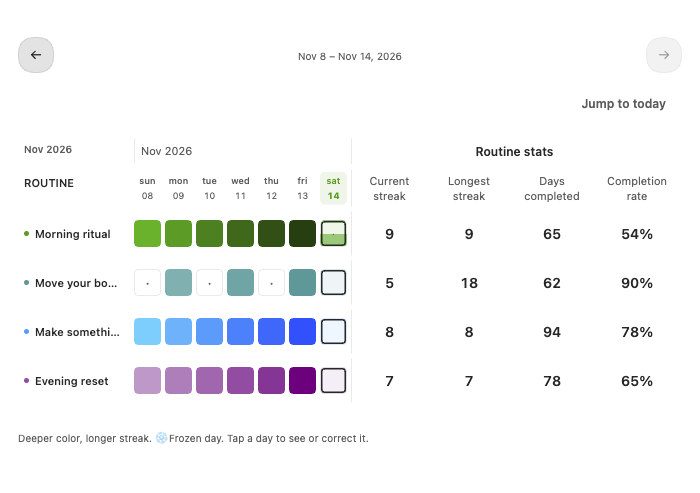
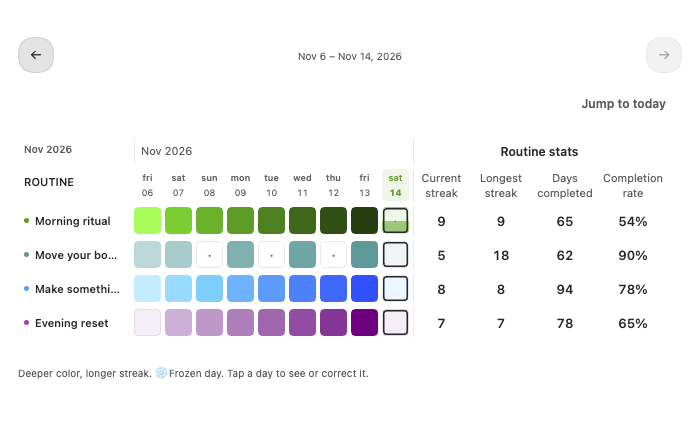
Tighten Routine stats columns and desktop rows

diff --git a/styles.css b/styles.css
@@ -355,13 +355,16 @@
 .dm-board-host.is-paginated .dm-board-stat,
 .dm-board-host.is-paginated .dm-board-stat-heading,
 .dm-board-host.is-paginated .dm-routine-stats-heading { display: none; }
-.dm-board-host.is-paginated .dm-board-row:not(.dm-month-row):not(.dm-column-headings) { min-height: 44px; }
-.dm-board-host.has-inline-stats .dm-board-row { grid-template-columns: var(--dm-board-label-width) repeat(var(--dm-days), 27px) 76px 76px 82px 80px; }
+.dm-board-host.is-paginated .dm-board-row[data-routine-id] { min-height: 44px; }
+.dm-board-host.has-inline-stats .dm-board { gap: 4px; }
+.dm-board-host.has-inline-stats .dm-board-row { grid-template-columns: var(--dm-board-label-width) repeat(var(--dm-days), 27px) 56px 56px 64px 64px; }
+.dm-board-host.has-inline-stats .dm-board-row[data-routine-id] { min-height: 30px; }
 .dm-board-host.has-inline-stats .dm-board-row:not(.dm-month-row):not(.dm-column-headings) > .dm-board-label { display: flex; align-items: center; }
 .dm-board-host.has-inline-stats .dm-board-label::before { flex: 0 0 5px; }
 .dm-board-routine-name-text { min-width: 0; overflow: hidden; text-overflow: ellipsis; white-space: nowrap; }
 .dm-board-host.has-inline-stats .dm-board-stat,
-.dm-board-host.has-inline-stats .dm-board-stat-heading { display: flex; flex-direction: column; align-items: center; justify-content: center; align-self: stretch; min-width: 0; text-align: center; padding: 4px; }
+.dm-board-host.has-inline-stats .dm-board-stat-heading { display: flex; flex-direction: column; align-items: center; justify-content: center; align-self: stretch; min-width: 0; text-align: center; padding: 2px; }
+.dm-board-host.has-inline-stats .dm-routine-stat-value { font-size: 13px; line-height: 1.3; font-weight: 550; }
 .dm-board-host.has-inline-stats .dm-routine-stats-heading { display: block; grid-column: span 4; border-inline-start: 1px solid var(--dm-line); padding: 4px 12px; font-size: 12px; font-weight: 600; text-align: center; }
 .dm-board-host.has-inline-stats .dm-board-stat-heading { font-size: 11px; line-height: 1.3; color: var(--text-muted); }
 .dm-board-host.has-inline-stats .is-first { border-inline-start: 1px solid var(--dm-line); }

diff --git a/src/board-layout.ts b/src/board-layout.ts
@@ -1,7 +1,7 @@
 /** Dates use fixed 27px cells, 4px gutters, and an always-visible routine label. */
 export const BOARD_MIN_DAYS = 7;
-// Four stat columns (76, 76, 82, 80px) plus their four 4px gutters.
-export const BOARD_STATS_WIDTH = 330;
+// Four compact stat columns (56, 56, 64, 64px) plus their four 4px gutters.
+export const BOARD_STATS_WIDTH = 256;
 export const BOARD_STATS_MIN_WIDTH = 112 + BOARD_STATS_WIDTH + 4 + BOARD_MIN_DAYS * 31;
 export function boardShowsInlineStats(width: number, mobile: boolean) { return !mobile && width >= BOARD_STATS_MIN_WIDTH; }
 export function boardShowsStackedLabels(width: number, labelWidth: number) { return width < labelWidth + 4 + BOARD_MIN_DAYS * 31; }

diff --git a/tests/board-layout.test.ts b/tests/board-layout.test.ts
@@ -16,7 +16,8 @@ test('Habit Board fits whole fixed-size date cells into desktop and narrow panes
     assert.equal(boardDaysForWidth(0),28);
 });
 
-test('desktop stats reserve room while retaining complete date columns',()=>{
+test('compact desktop stats reserve room while retaining complete date columns',()=>{
+    assert.equal(boardDaysForWidth(664,112,28,BOARD_STATS_WIDTH),9);
     for(const width of [664,720,900,1200,1600]){
         const days=boardDaysForWidth(width,112,28,BOARD_STATS_WIDTH);
         assert.ok(days>=7);

diff --git a/docs/HABIT-BOARD-STATS.md b/docs/HABIT-BOARD-STATS.md
@@ -11,7 +11,7 @@ The four exact labels are Current streak, Longest streak, Days completed, and Co
 - `npm run check`: official Obsidian ESLint rules, strict TypeScript, production bundle, **49 automated tests**, release metadata, and README links passed.
 - New pure cases cover 42 of 50 daily occurrences (84%), selected weekdays with partial completion, freezes, correction, today completion/undo, midnight eligibility, no history, future records, and historical schedule revisions.
 - Source and production-bundle integration verify the empty-block default, routine selection, stats refresh after check-in, and absence of stats in the Today mini-board.
-- `node scripts/board-stats-ui-check.mjs`: passed in light/dark themes at desktop **1200 × 900** and phone widths **390 × 900** and **320 × 900**. The actual usable panes were 664px, 256px, and 186px wide. The board showed seven, eight, and seven date columns respectively. Desktop uses four aligned stats columns; the narrow pane uses the compact section. The script tests exact labels and counts, Enter/Space activation, emulated touch, no inner scrolling, month-boundary browsing, correction/undo, returning focus to the date cell, new-routine today completion/undo, and Jump to today. Records and saved bytes are restored.
+- `node scripts/board-stats-ui-check.mjs`: passed in light/dark themes at desktop **1200 × 900** and phone widths **390 × 900** and **320 × 900**. The actual usable panes were 664px, 256px, and 186px wide. The compact board shows nine, eight, and seven date columns respectively. Desktop uses four aligned compact stats columns and 30px rows; the narrow pane uses the compact section. The script tests exact labels and counts, Enter/Space activation, emulated touch, no inner scrolling, month-boundary browsing, correction/undo, returning focus to the date cell, new-routine today completion/undo, and Jump to today. Records and saved bytes are restored.
 - Existing board layout, history correction, and multi-view Markdown regression scripts passed. Explicit analytics views and invalid-option messaging remain available. The history test now browses to a month boundary because reserving stats space can shorten the current date page.
 - Mobile mode forces the compact section even in wider landscape widths; the layout helper is covered by a mobile-flag unit test.
 

diff --git a/DESIGN.md b/DESIGN.md
@@ -50,3 +50,5 @@ The grids, palette, headers, range navigation, Markdown options, schedule/streak
 The default empty Markdown block now renders Habit Board. Only its paginated Markdown renderer adds Routine stats; the Today mini-board and analytics views retain their own presentation and calculations. When the pane fits at least seven dates plus four stat columns on desktop, the stats share each routine’s grid row. The Routine stats title is centered over those columns. Date pagination reserves the columns’ width while keeping at least seven dates visible. Very narrow panes put routine names above the date cells; cells retain 27px size when space permits. Completion rate is percentage-only. Narrow panes and mobile devices use 44px routine-name buttons and one compact, selected-routine section below the board, independent for each block. Selection survives paging and refreshes.
 
 Stats reuse `streakStats` over full history. Completion-rate eligibility subtracts an unfinished today; prior scheduled dates, including freezes, stay in the denominator. Completing today includes it immediately. A zero denominator shows an em dash. Date-range navigation never changes lifetime stats. The mode of this surface is Operate: retain the palette, date/month headers, corrections, and Jump to today while making lifetime counts readable.
+
+The desktop stats table uses compact 56/56/64/64px columns and 30px routine rows, with 13px tabular numerals and 11px wrapped labels. This keeps more date history visible without changing the seven-date minimum. The centered title, percentage-only rate, theme variables, and mobile 44px name targets are preserved.

diff --git a/CONTRIBUTING.md b/CONTRIBUTING.md
@@ -9,7 +9,7 @@ npm ci
 npm run check
 ```
 
-`npm run check` runs the official Obsidian ESLint rules, strict TypeScript, the production build, automated tests against the source and bundle, and release metadata/link checks. `npm run dev` watches source files. `npm run package` builds `dist/niyoj-daymark-0.2.0.zip` with the three installation assets.
+`npm run check` runs the official Obsidian ESLint rules, strict TypeScript, the production build, automated tests against the source and bundle, and release metadata/link checks. `npm run dev` watches source files. `npm run package` builds `dist/niyoj-daymark-0.2.1.zip` with the three installation assets.
 
 For manual testing, use a disposable vault and copy `main.js`, `manifest.json`, and `styles.css` into `<vault>/.obsidian/plugins/niyoj-daymark/`. Enable Daymark Habits, create a routine, and try the four Markdown views in Reading view and Live Preview. Avoid developing against your only copy of real habit records.
 

diff --git a/README.md b/README.md
@@ -19,7 +19,7 @@ Created by **[niyoj](https://github.com/niyoj)**. Free, local, and open source. 
 
 Daymark Habits is being prepared for the Obsidian Community directory. Until the listing is approved, install it manually:
 
-1. Download **`niyoj-daymark-0.2.0.zip`** from the [latest release](https://github.com/niyoj/daymark/releases/latest).
+1. Download **`niyoj-daymark-0.2.1.zip`** from the [latest release](https://github.com/niyoj/daymark/releases/latest).
 2. Extract the `niyoj-daymark` folder into your vault’s `.obsidian/plugins/` folder. It must contain `main.js`, `manifest.json`, and `styles.css` directly inside it.
 3. Restart Obsidian or reload community plugins, then enable **Daymark Habits** under **Settings → Community plugins**.
 4. Open the command palette and run **Daymark Habits: Open Today**.

diff --git a/docs/releases/0.2.1.md b/docs/releases/0.2.1.md
@@ -1,0 +1,5 @@
+Routine stats now use a more compact desktop table: narrower columns, tighter rows, and quieter numeric typography. The standard 664px pane fits nine date columns instead of seven.
+
+The title remains centered and completion rate stays percentage-only. The minimum seven visible dates, mobile 44px routine targets, today positioning, history correction, and lifetime calculations are preserved.
+
+Verified with the full automated suite and real Obsidian at desktop, 390px, and 320px viewport widths in both themes. Phone widths use desktop emulation; physical iPhone testing remains outstanding.
